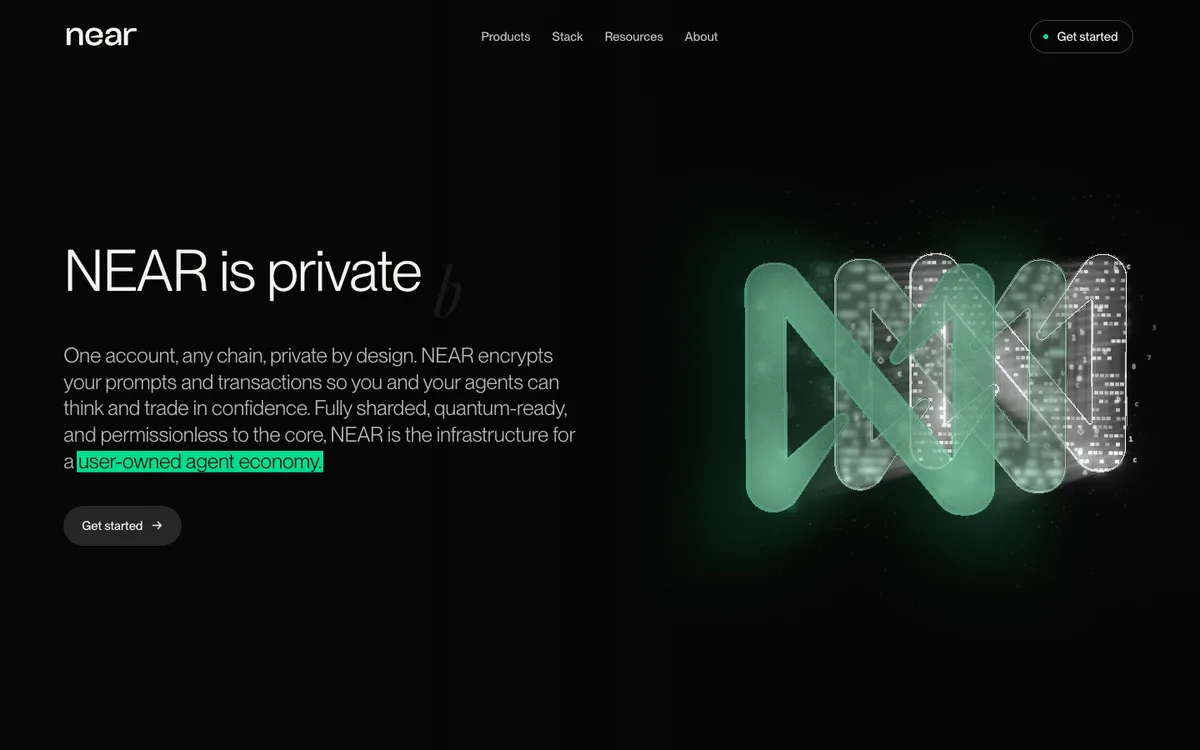
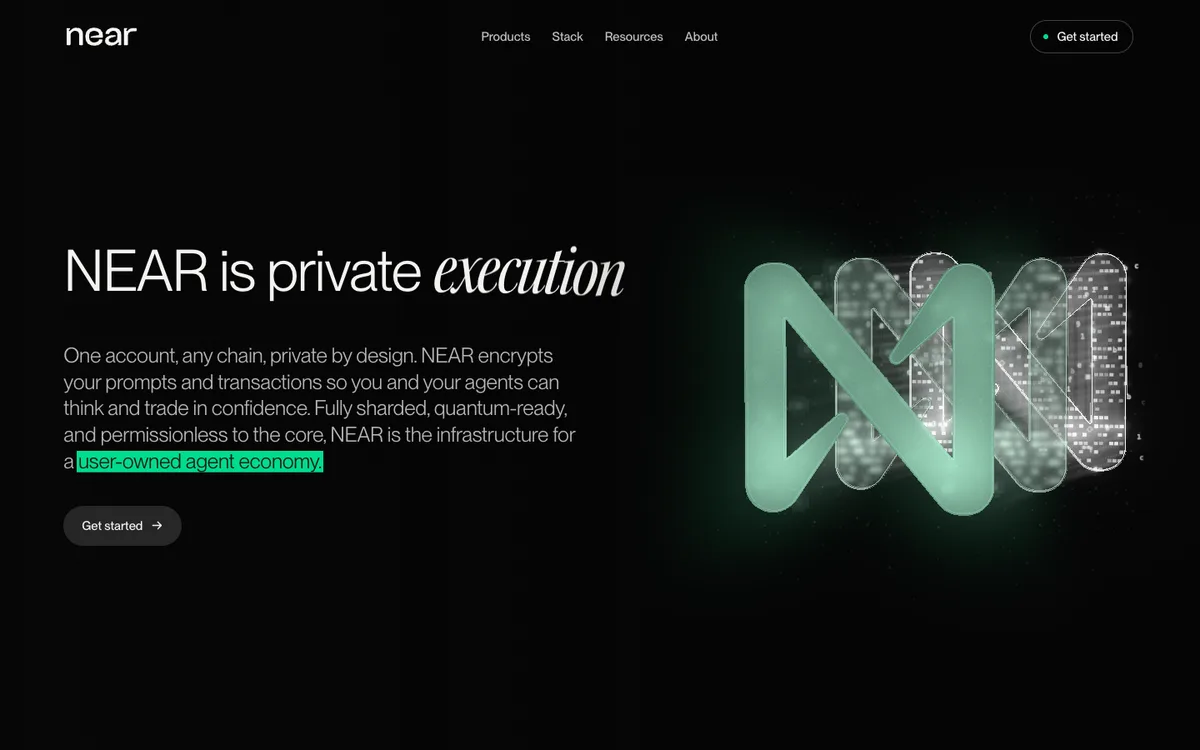
feat(hero-h): last veil fully opaque
The front, most diffused N is a solid frosted green: nothing behind it shows through.

Claude-Session: https://claude.ai/code/session_01BP4thZShxhMPXvDKsf86ix

Changed region(s): [[0.6167, 0.3373, 0.9558, 0.7053], [0.3392, 0.3373, 0.5242, 0.3987]]

diff --git a/src/components/heroes3d/scene-h.ts b/src/components/heroes3d/scene-h.ts
@@ -66,14 +66,14 @@ const PANE_VS = /* glsl */ `
     gl_Position = projectionMatrix * mv;
   }`;
 const PANE_FS = /* glsl */ `
-  uniform sampler2D tex; uniform vec3 col, body; uniform float gain, frost, rim, alpha, a;
+  uniform sampler2D tex; uniform vec3 col, body; uniform float gain, frost, rim, alpha, base, a;
   varying vec2 vUv; varying vec3 vN; varying vec3 vV; varying float vCap;
   float h(vec2 p){ return fract(sin(dot(p, vec2(12.9898, 78.233))) * 43758.5453); }
   void main(){
     vec3 L = texture2D(tex, vUv).rgb * gain;
     float fr = pow(1.0 - abs(dot(normalize(vN), normalize(vV))), 3.0);
     float grain = (h(floor(gl_FragCoord.xy)) - 0.5) * frost * 0.05;
-    vec3 c = col * L * (1.0 + frost * 0.35) + body * (frost * (0.05 + L.r * 0.25) + grain) + col * fr * rim * 0.5;
+    vec3 c = col * (L * (1.0 + frost * 0.35) + base) + body * (frost * (0.05 + L.r * 0.25) + grain) + col * fr * rim * 0.5;
     c = mix(col * (rim + L.r * 0.8), c, step(0.5, vCap));                        // the sides: lit by the light inside the glass
     gl_FragColor = vec4(c * a, alpha * a);
   }`;
@@ -230,12 +230,15 @@ export const mount: Mount = (canvas, section, track) => {
   addData(0);
 
   const paneGeo = nMark(SIZE, T, 0.006), edgeGeo = new THREE.EdgesGeometry(nMark(SIZE, T, 0), 25);
-  const FROST = [{ frost: 0, alpha: 0.12, rim: 0.4, edge: 0.6, gain: 0.95 }, { frost: 0.45, alpha: 0.6, rim: 0.32, edge: 0.25, gain: 0.95 }, { frost: 0.9, alpha: 0.8, rim: 0.25, edge: 0.1, gain: 3 }];
+  // the last pane is opaque (the private end: nothing behind it shows through), a solid frosted green lit from inside; it writes depth, so the haze,
+  // the dust and the data behind it are hidden too
+  const FROST = [{ frost: 0, alpha: 0.12, rim: 0.4, edge: 0.6, gain: 0.95, base: 0 }, { frost: 0.45, alpha: 0.6, rim: 0.32, edge: 0.25, gain: 0.95, base: 0 },
+    { frost: 0.9, alpha: 1, rim: 0.25, edge: 0.1, gain: 2.6, base: 0.13 }];
   const panes = FROST.map((fr, i) => {
     const u = { tex: { value: PIC[i] }, span: { value: W }, col: { value: new THREE.Color() }, body: { value: new THREE.Color(0xdff5ec) }, gain: { value: fr.gain },
-      frost: { value: fr.frost }, rim: { value: fr.rim }, alpha: { value: fr.alpha }, a: { value: 0 } };
+      frost: { value: fr.frost }, rim: { value: fr.rim }, alpha: { value: fr.alpha }, base: { value: fr.base }, a: { value: 0 } };
     const g = new THREE.Group(); stack.add(g);
-    const m = new THREE.Mesh(paneGeo, new THREE.ShaderMaterial({ vertexShader: PANE_VS, fragmentShader: PANE_FS, uniforms: u, ...premul }));
+    const m = new THREE.Mesh(paneGeo, new THREE.ShaderMaterial({ vertexShader: PANE_VS, fragmentShader: PANE_FS, uniforms: u, ...premul, depthWrite: fr.alpha >= 1 }));
     m.renderOrder = ro++; g.add(m);
     const e = new THREE.LineSegments(edgeGeo, new THREE.LineBasicMaterial({ color: 0xffffff, transparent: true, opacity: 0, blending: THREE.AdditiveBlending, depthWrite: false }));
     e.renderOrder = ro++; g.add(e);
@@ -347,7 +350,7 @@ export const mount: Mount = (canvas, section, track) => {
       pn.g.position.set(side(z) + (rm ? 0 : Math.sin(t * 0.21 + i * 1.7) * 0.03 * i * (1 - tip)), rm ? 0 : Math.sin(t * 0.33 + i) * 0.025 * (1 - tip), z - (1 - k) * 0.6);
       const fold = ease.inOutCubic((p - 0.4 - i * 0.07) / 0.24), sc = 1 - fold;
       pn.g.scale.set(Math.max(0.001, sc), Math.max(0.001, sc), 1); pn.g.visible = sc > 0.01;
-      pn.u.a.value = k * (0.35 + 0.65 * out); pn.u.gain.value = pn.gain * breathe * (1 + pulse(z)) * out;
+      pn.u.a.value = pn.alpha >= 1 ? k : k * (0.35 + 0.65 * out); pn.u.gain.value = pn.gain * breathe * (1 + pulse(z)) * out;
       pn.u.col.value.copy(i === 0 ? C_SHARP : i === 1 ? cSoft : cGlow);
       const em = pn.e.material as THREE.LineBasicMaterial;
       em.opacity = pn.edge * k * (1 + pulse(z)); em.color.copy(pn.u.col.value);
